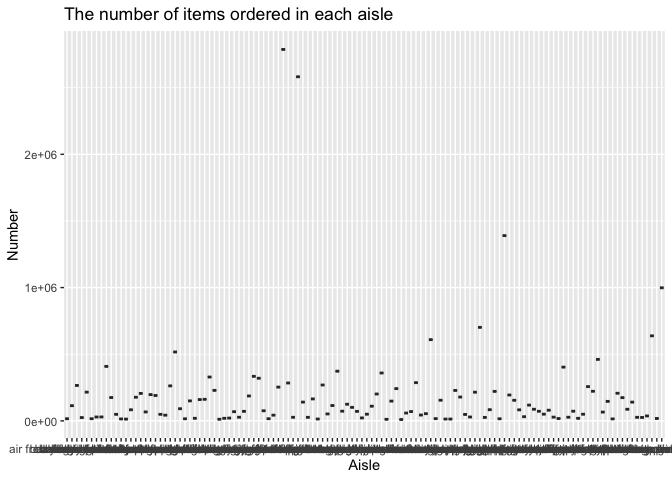
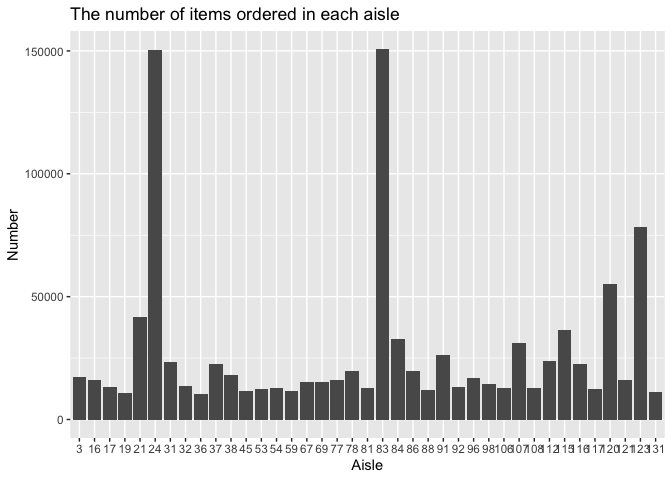
Problem1: revised the plot of the number of items ordered in each aisles.

Changed region(s): [[0.0312, 0.0, 1.0, 1.0], [0.7188, 0.4688, 0.7812, 0.5], [0.7188, 0.3125, 0.7812, 0.3438]]

diff --git a/p8105_hw3_jh4617.md b/p8105_hw3_jh4617.md
@@ -53,19 +53,24 @@ There are 134 aisles. The character aisle is the most items ordered
 from.
 
 ``` r
-instacart |>
-  group_by(aisle) |>
-  summarize(sum_order_number = sum(order_number)) |>
-  filter(sum_order_number > 10000) |>
-  ggplot(aes(x = aisle, y = sum_order_number)) +
-  geom_boxplot() +
+instacart_plot =
+  instacart |>
+  group_by(aisle_id) |>
+  summarize(n_obs = n()) |>
+  filter(n_obs > 10000)
+
+ggplot(data = instacart_plot, aes(x = as.factor(aisle_id), y = n_obs)) +
+  geom_col() +
     labs(
     title = "The number of items ordered in each aisle",
     x = "Aisle",
     y = "Number") 
 ```
 
-![](p8105_hw3_jh4617_files/figure-gfm/plot%20item-1.png)<!-- -->
+![](p8105_hw3_jh4617_files/figure-gfm/plot%20item-1.png)<!-- --> The 83
+aisle has the highest number of items ordered, which is equal to 150609.
+The 36 has the lowest number of items ordered, which is equal to 10575.
+The average number of items ordered is equal to 2.7281154^{4}.
 
 ``` r
 instacart |>
